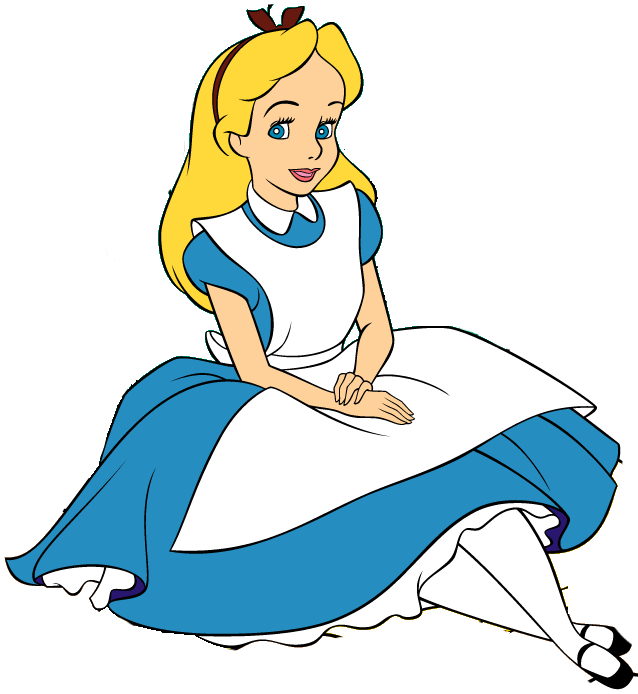
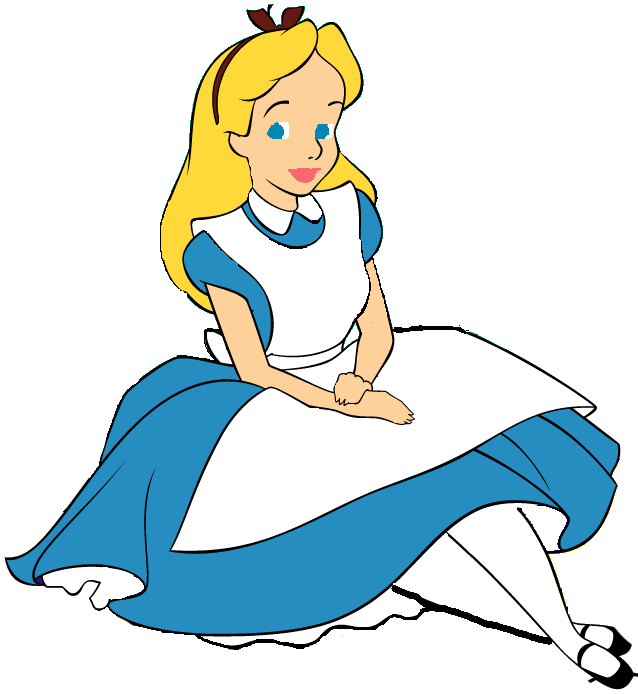
another strategy to pixelize

diff --git a/alice.html b/alice.html
@@ -1,12 +1,12 @@
 <html>
 	<style>
 	canvas {
-	    image-rendering: optimizeSpeed;
-	    image-rendering: -moz-crisp-edges;
-	    image-rendering: -webkit-optimize-contrast;
-	    image-rendering: -o-crisp-edges;
-	    image-rendering: crisp-edges;
-	    -ms-interpolation-mode: nearest-neighbor;
+		image-rendering: optimizeSpeed;
+		image-rendering: -moz-crisp-edges;
+		image-rendering: -webkit-optimize-contrast;
+		image-rendering: -o-crisp-edges;
+		image-rendering: crisp-edges;
+		-ms-interpolation-mode: nearest-neighbor;
 	}
 	</style>
 <body>
@@ -14,121 +14,125 @@
 	<br>
 	<input id="blocks" type="text" value="100">
 	<script>
-	var ctx = canvas.getContext('2d'),
-	img = new Image(),
-	play = false;
+		var ctx = canvas.getContext('2d'),
+		img = new Image(),
+		play = false;
 
-	ctx.mozImageSmoothingEnabled = false;
-	ctx.imageSmoothingEnabled = false;
+		ctx.mozImageSmoothingEnabled = false;
+		ctx.imageSmoothingEnabled = false;
 
-	img.onload = pixelate;
+		img.onload = pixelate2;
+		img.src = 'Alice9b.png';
 
-	img.src = 'Alice9b.png';
-
-	var allowedColors = {
-		hair : [255, 217, 57],
-		clothes : [37, 141, 191],
-		skin : [253, 209, 153],
-		white : [255, 255, 255],
-		black : [0, 0, 0],
-
-	};
-	var transformedColors = {
-		tiara : {
-			from : [101, 25, 15],
-			to : allowedColors.black
-		},
-		shadow : {
-			from : [40, 22, 111],
-			to : allowedColors.black
-		},
-		lips : {
-			from : [249, 104, 110],
-			to : allowedColors.black
-		},
-		tongue : {
-			from : [243, 149, 186],
-			to : allowedColors.black
-		},
-		eyes : {
-			from : [1, 137, 180],
-			to : allowedColors.clothes
-		}
-	};
-
-	function getColor(red, green, blue) {
-		for (var colorName in allowedColors) {
-			var color = allowedColors[colorName];
-			if (red == color[0] && green == color[1] && blue == color[2]) {
-				return color;
+		var allowedColors = {
+			hair : [255, 217, 57],
+			clothes : [37, 141, 191],
+			skin : [253, 209, 153],
+			white : [255, 255, 255],
+			black : [0, 0, 0],
+			lips : [249, 104, 110]
+		};
+		var transformedColors = {
+			tiara : {
+				from : [101, 25, 15],
+				to : allowedColors.black
+			},
+			shadow : {
+				from : [40, 22, 111],
+				to : allowedColors.black
+			},
+			eyes : {
+				from : [1, 137, 180],
+				to : allowedColors.clothes
 			}
-		}
-		for (var colorName in transformedColors) {
-			var color = transformedColors[colorName];
-			if (red == color.from[0] && green == color.from[1] && blue == color.from[2]) {
-				return color.to;
+		};
+
+		function getColor(red, green, blue) {
+			for (var colorName in allowedColors) {
+				var color = allowedColors[colorName];
+				if (red == color[0] && green == color[1] && blue == color[2]) {
+					return color;
+				}
 			}
-		}
-		return allowedColors.black;
-	};
-
-	function drawLine(x, y, c, maxX, maxY) {
-		ctx.lineWidth = c % 10 === 0 ? 1 : 0.5;
-		ctx.beginPath();
-		ctx.moveTo(x, y);
-		ctx.lineTo(maxX, maxY);
-		ctx.stroke();
-	};
-
-	function drawGrid(inc) {
-		for (var i = 0, c = 0; i < canvas.width; i += inc, c++) {
-			drawLine(i, 0, c, i, canvas.height);
-		}
-		for (var i = 0, c = 0; i < canvas.height; i += inc, c++) {
-			drawLine(0, i, c, canvas.width, i);
-		}
-	};
-
-	function pixelate2(pixelSize) {
-		/*ctx.fillRect(0, 0, canvas.width, canvas.height);
-		ctx.drawImage(img, 0, 0, canvas.width, canvas.height);
-		ctx.fillStyle = "white";*/
-		var imgData = ctx.getImageData(0, 0, canvas.width, canvas.height);
-		var data = imgData.data;
-
-		for (var y = 0; y < canvas.height; ++y) {
-			for (var x = 0; x < canvas.width; ++x) {
-				var i = (y * canvas.width + x) * 4;
-				var red = data[i],
-					green = data[i + 1],
-					blue = data[i + 2],
-					alpha = data[i + 3];
-
-				var newColor = getColor(red, green, blue);
-				data[i] = newColor[0];
-				data[i + 1] = newColor[1];
-				data[i + 2] = newColor[2];
-				data[i + 3] = 255;
+			for (var colorName in transformedColors) {
+				var color = transformedColors[colorName];
+				if (red == color.from[0] && green == color.from[1] && blue == color.from[2]) {
+					return color.to;
+				}
 			}
+			return allowedColors.black;
+		};
+
+		function drawLine(x, y, c, maxX, maxY) {
+			ctx.lineWidth = c % 10 === 0 ? 1 : 0.5;
+			ctx.beginPath();
+			ctx.moveTo(x, y);
+			ctx.lineTo(maxX, maxY);
+			ctx.stroke();
+		};
+
+		function drawGrid(inc) {
+			for (var i = 0, c = 0; i < canvas.width; i += inc, c++) {
+				drawLine(i, 0, c, i, canvas.height);
+			}
+			for (var i = 0, c = 0; i < canvas.height; i += inc, c++) {
+				drawLine(0, i, c, canvas.width, i);
+			}
+		};
+
+		function pixelate2(pixelSize) {
+			ctx.drawImage(img, 0, 0, canvas.width, canvas.height);
+			var imgData = ctx.getImageData(0, 0, canvas.width, canvas.height),
+				data = imgData.data,
+				pixelSize = Math.ceil(canvas.width / blocks.value);
+
+			for (var y = 0; y < canvas.height; y += pixelSize) {
+				for (var x = 0; x < canvas.width; x += pixelSize) {
+					var newColor = allowedColors.white;
+					for (var dy = 0; dy < pixelSize; dy++) {
+						for (var dx = 0; dx < pixelSize; dx++) {
+							var i = ((y + dy) * canvas.width + (x + dx)) * 4;
+							var red = data[i],
+								green = data[i + 1],
+								blue = data[i + 2],
+								alpha = data[i + 3];
+
+							newColor = getColor(red, green, blue);
+							if (newColor[0] === allowedColors.black[0] && newColor[1] === allowedColors.black[1] && newColor[1] === allowedColors.black[2]) {
+								break;
+							}
+						}
+					}
+					for (var dy = 0; dy < pixelSize; dy++) {
+						for (var dx = 0; dx < pixelSize; dx++) {
+							var i = ((y + dy) * canvas.width + (x + dx)) * 4;
+							data[i] = newColor[0];
+							data[i + 1] = newColor[1];
+							data[i + 2] = newColor[2];
+							data[i + 3] = 255;
+						}
+					}
+				}
+			}
+			ctx.putImageData(imgData, 0, 0);
+
+			drawGrid(pixelSize);
 		}
-		ctx.putImageData(imgData, 0, 0);
-	}
 
-	function pixelate() {
-		var w = blocks.value,
-			h = canvas.height * w / canvas.width;
+		function pixelate() {
+			var w = blocks.value,
+				h = canvas.height * w / canvas.width;
 
-		ctx.fillRect(0, 0, canvas.width, canvas.height);
-		ctx.drawImage(img, 0, 0, w, h);
-		ctx.fillStyle = "white";
-		ctx.drawImage(canvas, 0, 0, w, h, 0, 0, canvas.width, canvas.height);
-		pixelate2(canvas.width / w);
+			ctx.fillRect(0, 0, canvas.width, canvas.height);
+			ctx.drawImage(img, 0, 0, w, h);
+			ctx.fillStyle = "white";
+			ctx.drawImage(canvas, 0, 0, w, h, 0, 0, canvas.width, canvas.height);
+			pixelate2(canvas.width / w);
 
-		drawGrid(canvas.width / w);
-	}
+			drawGrid(canvas.width / w);
+		}
 
-
-	blocks.addEventListener('change', pixelate, false);
+		blocks.addEventListener('change', pixelate, false);
 	</script>
 </body>
 </html>
